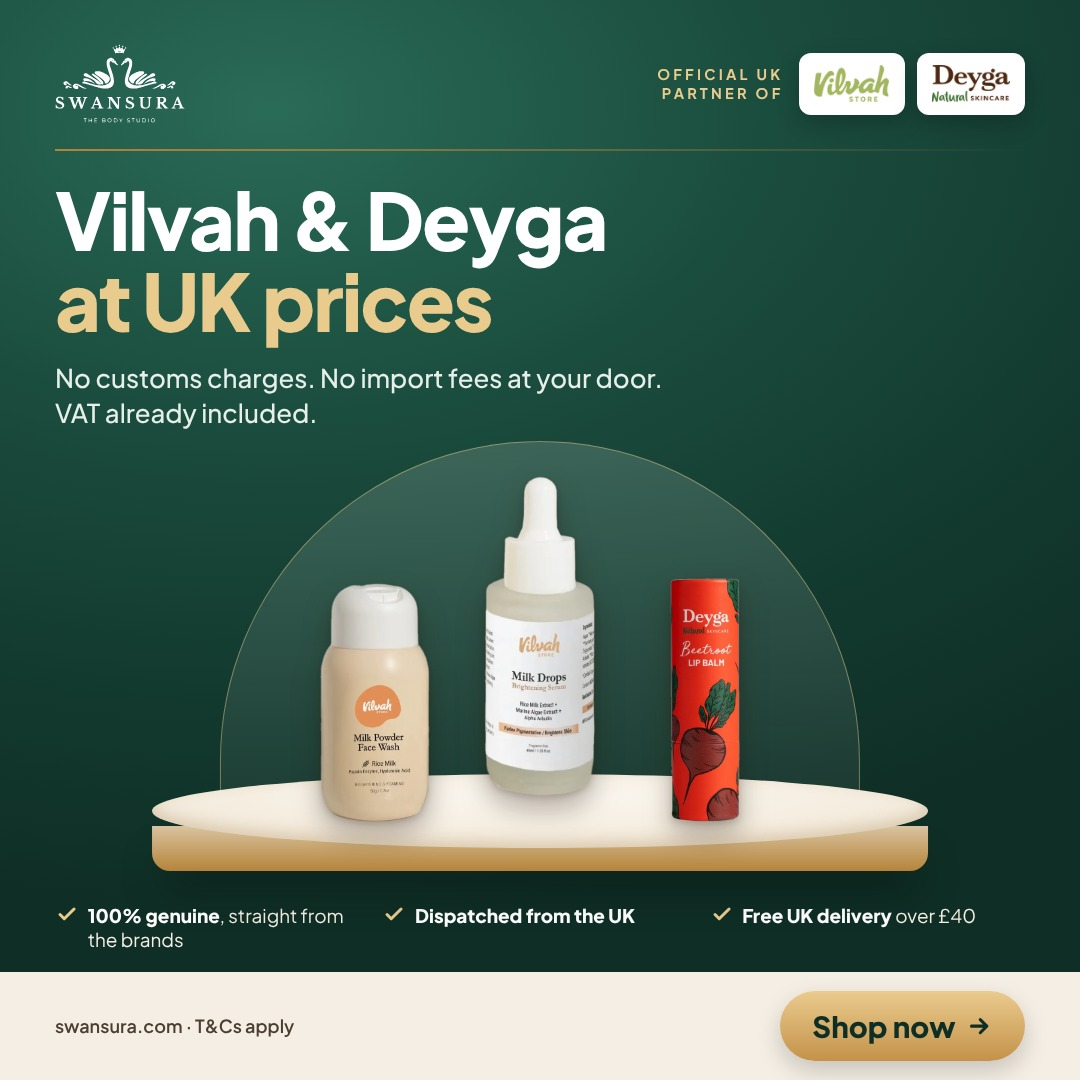
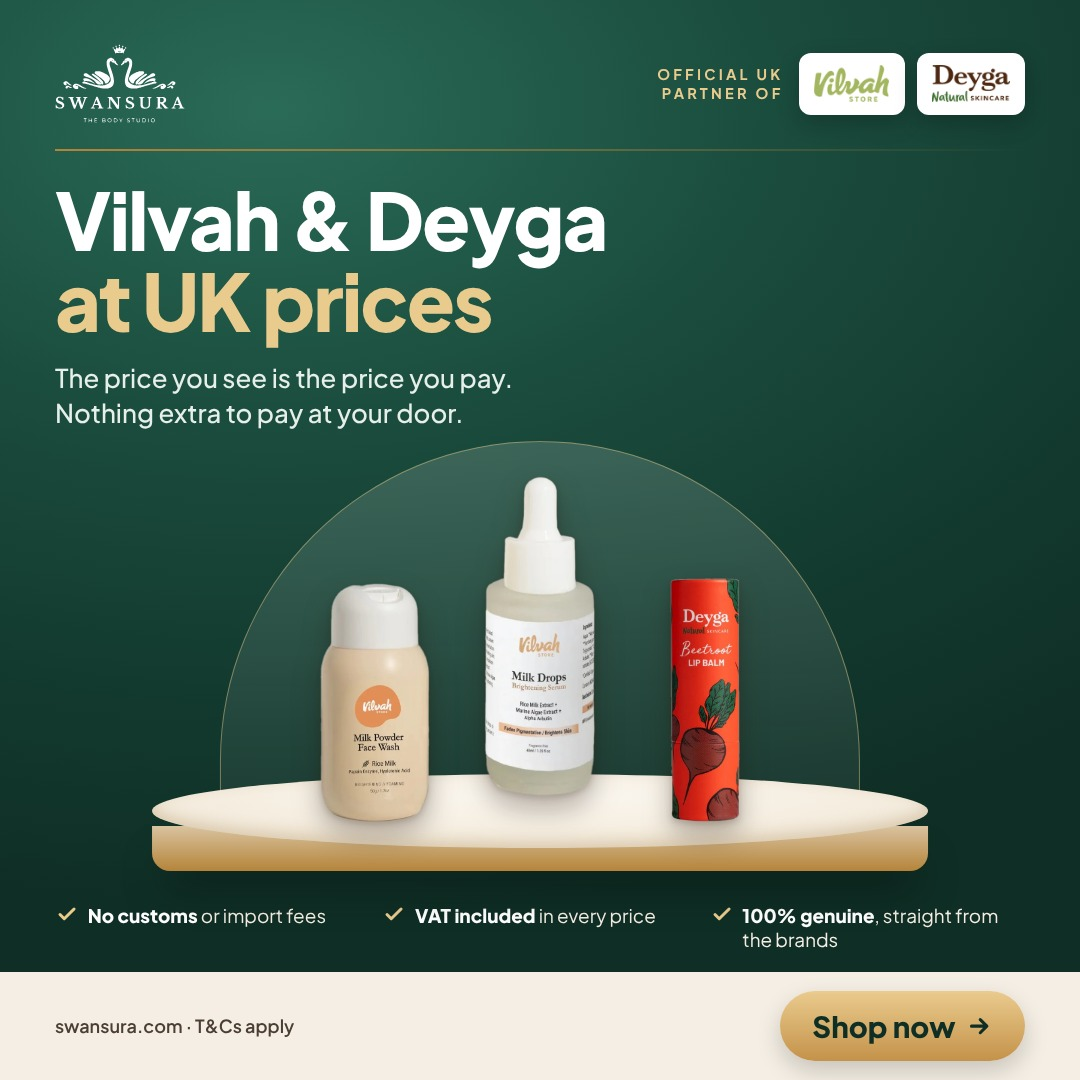
USP image ads: one message per image (price vs delivery)
Claude-Session: https://claude.ai/code/session_01FHVN4n8tpWTTcEhNkMK5Am

diff --git a/docs/ads/usp_2026-11-18/src/build.js b/docs/ads/usp_2026-11-18/src/build.js
@@ -6,12 +6,12 @@ const TICK='<svg viewBox="0 0 24 24" width="1em" height="1em" fill="none" stroke
 const ARR='<svg width="0.9em" height="0.9em" viewBox="0 0 24 24" fill="none" stroke="currentColor" stroke-width="2.8" stroke-linecap="round" stroke-linejoin="round"><path d="M5 12h14M13 6l6 6-6 6"/></svg>';
 const C={
  1:{eb:'Official UK partner of',h1:'Vilvah &amp; Deyga',h2:'at UK prices',
-    sub:'No customs charges. No import fees at your door.<br>VAT already included.',
-    ticks:['<b>100% genuine</b>, straight from the brands','<b>Dispatched from the UK</b>','<b>Free UK delivery</b> over £40'],
+    sub:'The price you see is the price you pay.<br>Nothing extra to pay at your door.',
+    ticks:['<b>No customs</b> or import fees','<b>VAT included</b> in every price','<b>100% genuine</b>, straight from the brands'],
     prods:[['p_milkdrops40.png',50,20,72],['p_facewash.png',33,14,54],['p_stick_box.png',67,14,55]],fine:'swansura.com · T&amp;Cs apply'},
  2:{eb:'Official UK partner of',h1:'Next-day',h2:'UK delivery',
-    sub:'Genuine Vilvah &amp; Deyga, dispatched from<br>our UK stock. No waiting on overseas parcels.',
-    ticks:['<b>Next-day</b> delivery £3.99','<b>Free UK delivery</b> over £40','<b>100% genuine</b>, from the brands'],
+    sub:'Pick next-day delivery at checkout.<br>No waiting on overseas parcels.',
+    ticks:['<b>Next-day</b> delivery £3.99','<b>Dispatched</b> from our UK stock','<b>Free UK delivery</b> over £40'],
     prods:[['p_betterageing.png',33,19,62],['p_milkdrops20.png',51,19,62],['lip_beet.png',70,13,46]],fine:'Next working day after dispatch · T&amp;Cs apply'}};
 const SZ={'4x5':[1080,1350],'1x1':[1080,1080],'9x16':[1080,1920]};
 function html(c,W,H){const sq=W==H,tl=H>1500,k=sq?.86:1;
